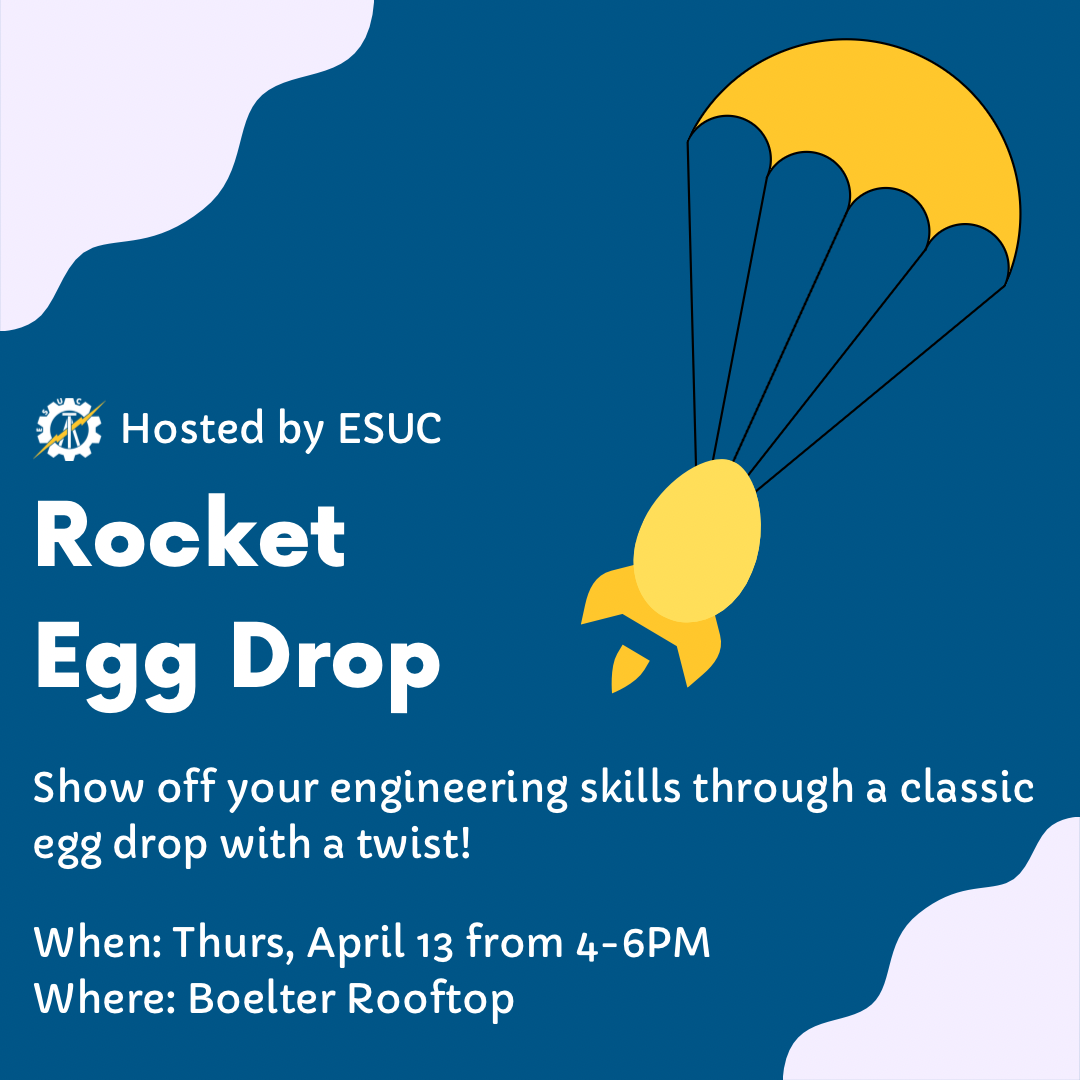
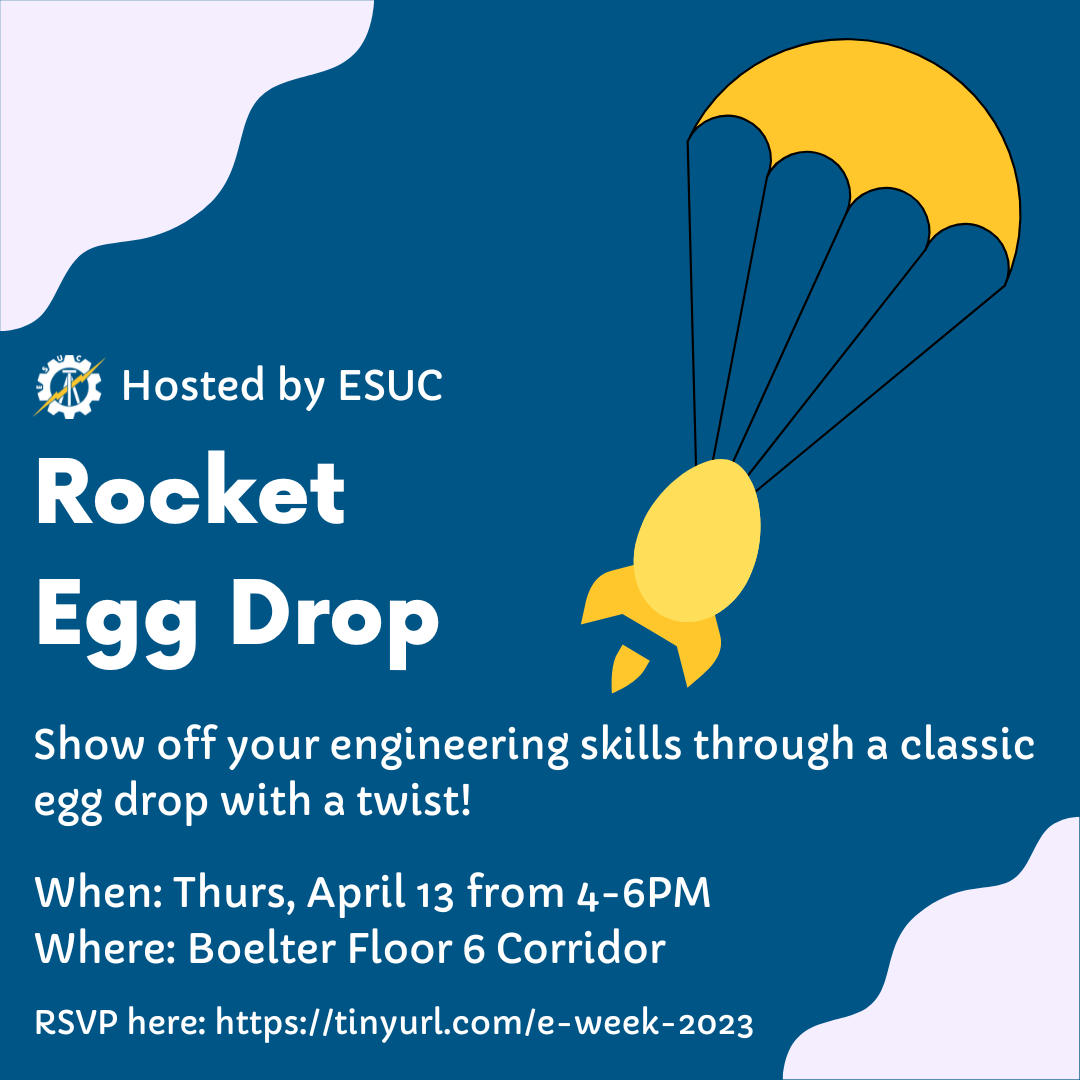
Fix pictures and update egg drop

Changed region(s): [[0.0306, 0.3056, 0.9778, 0.9778]]

diff --git a/index.html b/index.html
@@ -318,7 +318,7 @@
                 <ul>
                   <li><i class="ri-check-double-line"></i> Date: Thursday, April 13, 2023</li>
                   <li><i class="ri-check-double-line"></i> Time: 4 PM to 6 PM</li>
-                  <li><i class="ri-check-double-line"></i> Location: Boelter Penthouse (Floor 9 Rooftop)</li>
+                  <li><i class="ri-check-double-line"></i> Location: Boelter Floor 6 Corridor</li>
                 </ul>
                 <p>
                   In the spirit of Bruin E-Week, students will get the chance to show off their engineering skills through a classic egg drop with a twist. 
@@ -362,7 +362,7 @@
                 <h3>Art Display</h3>
                 <p class="fst-italic">
                   Who said engineers weren't creative? Show off your art skills and have your work exhibited on Instagram and the Bruin E-Week website! 
-                  Sign up here: <a href="https://tinyurl.com/art-display-2023-submission" target="_blank" rel="noopener">https://tinyurl.com/art-display-2023-submission</a>
+                  Vote here: <a href="https://tinyurl.com/art-display-2023-voting" target="_blank" rel="noopener">https://tinyurl.com/art-display-2023-voting</a>
                 </p>
                 <ul>
                   <li><i class="ri-check-double-line"></i> Date: April 10-14, 2023 (All Week)</li>
@@ -559,9 +559,9 @@
           </div>
 
           <div class="col-lg-4 col-md-6 portfolio-item filter-submissions">
-            <a href="assets/img/art/submission-15.jpg" data-gallery="portfolioGallery" class="portfolio-lightbox preview-link" 
+            <a href="assets/img/art/submission-16.jpg" data-gallery="portfolioGallery" class="portfolio-lightbox preview-link" 
             title="This playful and whimsical painting is a delightful homage to the beloved character Squidward from the hit TV show SpongeBob SquarePants. The artwork is a replica of Squidward's 'Bold and Brash' painting, but with a twist: it has been renamed 'Phold and Phash' to start with the same sound as the artist's name, Phillip. The painting itself features bold, abstract shapes and bright, contrasting colors, which captures the spirit of Squidward and the world of SpongeBob SquarePants. ~ Phillip Nguyen">
-            <img src="assets/img/art/submission-15.jpg" class="img-fluid" alt="">
+            <img src="assets/img/art/submission-16.jpg" class="img-fluid" alt="">
               <div class="portfolio-info">
                 <h4>Phold and Phash</h4>
                 <p>Submissions</p>
@@ -571,8 +571,8 @@
           </div>
 
           <div class="col-lg-4 col-md-6 portfolio-item filter-submissions">
-            <a href="assets/img/art/submission-16.jpg" data-gallery="portfolioGallery" class="portfolio-lightbox preview-link" title="This prismatic bear is a depiction of the Bruin Racing team's logo, painted on the front of a tote bag. The colorful and vibrant bear, inspired by the iconic UCLA Bruin, is rendered in an array of red, blue, yellow, and green hues. This piece captures the essence of UCLA's Engineering organizations, combining power, strength, and a bold sense of style into a single dynamic image. ~ Phillip Nguyen">
-            <img src="assets/img/art/submission-16.jpg" class="img-fluid" alt="">
+            <a href="assets/img/art/submission-15.jpg" data-gallery="portfolioGallery" class="portfolio-lightbox preview-link" title="This prismatic bear is a depiction of the Bruin Racing team's logo, painted on the front of a tote bag. The colorful and vibrant bear, inspired by the iconic UCLA Bruin, is rendered in an array of red, blue, yellow, and green hues. This piece captures the essence of UCLA's Engineering organizations, combining power, strength, and a bold sense of style into a single dynamic image. ~ Phillip Nguyen">
+            <img src="assets/img/art/submission-15.jpg" class="img-fluid" alt="">
               <div class="portfolio-info">
                 <h4>Bearagonal Prism</h4>
                 <p>Submissions</p>
